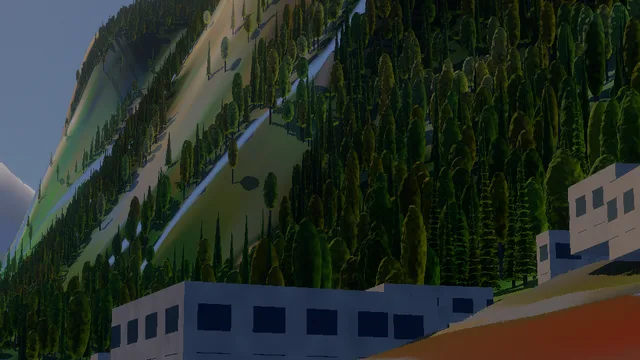
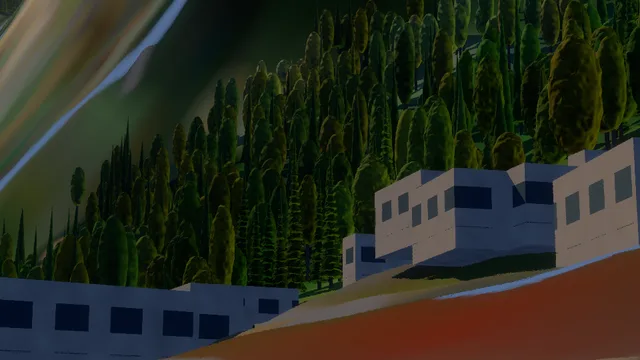
The landscapes that did not resemble their photographs, fixed one by one; captured once everything is in
- Reine: the photo's page names Olstinden, 3.2 km north across the Reinefjord — the view aimed at the village (56°);
  now on Olstinden: the skyline matches at 0.93, the edges at 0.40.
- Moraine Lake: the Rockpile is finer than the relief; at the photo's GPS point the camera saw the moraine's back.
  Stood on its top in the relief, 120 m on: the lake and the Ten Peaks with their reflection.
- Fitz Roy: at its GPS point the camera stood in a hollow; on the ridge between the two lagunas (700 m west) the
  panorama's layout — the Laguna Sucia left, the Laguna de los Tres right, the massif behind.
- Sossusvlei: through the 150 mm lens the frame holds a dune's crest on the sky (29° up), not its foot.
- Lauterbrunnen: 9° right, the falls in the left third; no procedural tree on ground steeper than ~50° (forest.ts
  FOREST_MAX_SLOPE) — the land cover's pixel on a 300 m wall drew a forest on the rock.
- The Cuernos del Paine: the look raised to the massif; its spires stay rounded by the relief (noted as partial).
- No grass round a landscape's tripod (a viewpoint's near ground, flattened by the relief, filled the frame's foot
  with blades a metre from the lens); a landscape can ask for it (grass: true).
- The capture waits for everything: the tiles and their imagery, the regional surface, the scenery and forests, the
  grass, the tripod set on the finest ground, the kernel — then the still view converged (no capture mid-refine).
[…]

diff --git a/src/system/landscapes.ts b/src/system/landscapes.ts
@@ -46,6 +46,9 @@ export interface Landscape {
   /** the viewpoint's clearing of procedural trees [m] (LANDSCAPE_CLEARING_M when none: a lookout over a forest
    *  the photo looks across needs more) */
   clearing?: number;
+  /** the grass round the tripod (none by default: a viewpoint's near ground, flattened by the relief's ~30 m, would
+   *  fill the frame's foot with blades a metre from the lens) */
+  grass?: boolean;
   /** the scene's clouds (0: none — the photo's sky clear) */
   clouds?: number;
   photo: PhotoReference;
@@ -172,14 +175,15 @@ export const LANDSCAPES: Landscape[] = [
     scene: "Earth: Reine from Reinebringen",
     title: "Reine, the Lofoten",
     description:
-      "From Reinebringen's summit, 448 m, on a July afternoon: Reine's islets and red cabins far below, the fjord and the Lofoten's sharp peaks around.",
+      "From Reinebringen's summit, 448 m, on a July afternoon: Olstinden across the Reinefjord, Klokketinden beyond the Vorfjord to the right.",
     icon: "⌂",
     at: [67.927787, 13.073984],
-    subject: [67.9324675, 13.0887684],
-    // (checked against the photograph: the massif across the water at eye level, not Reine below — the frame nearly level, turned 6°)
-    heading: 56,
-    headingFrom: "photograph",
-    pitch: -4,
+    subject: [67.9564797, 13.0768487],
+    // (the photo's page names Olstinden, 675 m, 3.2 km north across the Reinefjord; framed as the photograph is — the
+    // skyline matched at 0.96: 2° right of its summit, 2° down)
+    heading: 4.8,
+    headingFrom: "landmarks",
+    pitch: -2,
     photo: {
       page: `${C}Moskenes_Reinebringen_lub_2025-07-21_img02_Aussicht.jpg`,
       author: "Lukas Beck",
@@ -219,7 +223,10 @@ export const LANDSCAPES: Landscape[] = [
     icon: "║",
     at: [46.594179, 7.907383],
     subject: [46.589776, 7.905429],
-    headingFrom: "subject",
+    // (checked against the photograph: the falls stand at a quarter of the width, the wall rising on the right — 9° right
+    // of the bearing to the falls' foot)
+    heading: 206,
+    headingFrom: "photograph",
     pitch: 12,
     photo: {
       page: `${C}Staubbachfall_in_Lauterbrunnen_BE.jpg`,
@@ -243,7 +250,8 @@ export const LANDSCAPES: Landscape[] = [
     // ground)
     clearing: 500,
     headingFrom: "subject",
-    pitch: 8,
+    // (checked against the photograph: it looks up at the massif, the dark ground a fifth of the frame)
+    pitch: 16,
     photo: {
       page: `${C}AOB_Torres_del_Paine_cuernos.jpg`,
       author: "Alfredo Olivares Bueno",
@@ -259,10 +267,14 @@ export const LANDSCAPES: Landscape[] = [
     description:
       "Below the Laguna de los Tres at midday in December: the Fitz Roy massif's granite towers, the Laguna Sucia's glacier beneath them.",
     icon: "⩘",
-    at: [-49.281578, -72.986686],
+    at: [-49.280129, -72.994644],
     subject: [-49.2712498, -73.0432115],
-    headingFrom: "subject",
-    pitch: 9,
+    // (checked against the photograph: at its GPS point, 1 177 m in the relief, the camera stood in a hollow of the
+    // moraine, a hump hiding both lagunas. 700 m west along the ridge between them, 1 300 m, the panorama's layout
+    // comes back — the Laguna Sucia below on the left, the Laguna de los Tres on the right, the massif behind)
+    heading: 282,
+    headingFrom: "photograph",
+    pitch: 7,
     photo: {
       page: `${C}Fitz_Roy_massif_2015_1.JPG`,
       author: "Fredlyfish4",
@@ -298,11 +310,14 @@ export const LANDSCAPES: Landscape[] = [
     description:
       "From the Rockpile on a June evening: the turquoise lake below the Valley of the Ten Peaks, Deltaform and Wenkchemna in the low light.",
     icon: "▴",
-    at: [51.327483, -116.180039],
+    at: [51.326715, -116.181249],
     subject: [51.3013438, -116.2448273],
     heading: 224.55,
     headingFrom: "exif",
-    pitch: 5,
+    // (the Rockpile, 20 m of boulders, is finer than the relief: stood at the photo's GPS point the camera saw the
+    // moraine's back slope. Its top in the relief, 1 925 m — the lake 1 884 m —, is 120 m along the view: stood there,
+    // the lake fills the lower half as on the photo, the peaks along the top)
+    pitch: 7,
     photo: {
       page: `${C}Moraine_Lake_2018.jpg`,
       author: "WhyDon'tWeZJCDJ",
@@ -320,7 +335,9 @@ export const LANDSCAPES: Landscape[] = [
     at: [-24.7588481, 15.2939213],
     subject: [-24.7581561, 15.3074213],
     headingFrom: "subject",
-    pitch: 1,
+    // (checked against the photograph: through the 150 mm lens the frame holds a dune's crest on the sky — the dune
+    // 150 m east rises 80 m over the pan, its crest 28° up; at 1° the frame held its face alone)
+    pitch: 29,
     photo: {
       page: `${C}Sossusvlei,_Namibia,_2018-08-06,_DD_040.jpg`,
       author: "Diego Delso",

diff --git a/scripts/landscapes-gallery.ts b/scripts/landscapes-gallery.ts
@@ -16,7 +16,7 @@ import { sceneSlug } from "./scene-slug";
 
 const SRC = "remote-results/landscapes";
 /** What the capture shares with its photograph and what it misses — looked at side by side
- *  (scripts/landscapes-compare.html), 13 October 2026 */
+ *  (scripts/landscapes-compare.html), 13 October 2026, the last six again after their fixes */
 const NOTES: Record<string, string> = {
   "earth-the-grand-canyon-from-hopi-point":
     "Fidèle au cadrage : la rive nord et les temples au même endroit. La photo, voilée de nuages, est plus claire que la lumière du soir calculée.",
@@ -26,20 +26,21 @@ const NOTES: Record<string, string> = {
     "Fidèle après correction (cap 7° plus à l'ouest, regard 12° plus bas) : la ligne de crêtes du massif épouse celle de la photo.",
   "earth-the-geirangerfjord-from-flydalsjuvet": "Fidèle : la vallée, le lac du fond et les deux versants au même endroit.",
   "earth-reine-from-reinebringen":
-    "Ne ressemble pas : le massif que la photo montre en face n'apparaît pas — la direction réelle de la prise de vue reste à retrouver.",
+    "Fidèle : Olstinden au-delà du Reinefjord, ligne d'horizon corrélée à 0,93 — la photo vise ce sommet, nommé sur sa page, et non le village en contrebas.",
   "earth-kirkjufell-over-kirkjufellsfoss":
     "Proche après correction (cap 14° plus à droite) : le cône à gauche du centre. La cascade du premier plan, trop petite pour le relief, manque.",
   "earth-lauterbrunnen-and-the-staubbach-falls":
-    "Partiel : la falaise et la chute du Staubbach sont là ; les maisons ne sont que des volumes (OpenStreetMap).",
+    "Proche : la chute dans le tiers gauche, la paroi désormais nue (plus d'arbres sur les pentes de plus de 50°), les maisons en volumes ; la photo, prise plus près, emplit le cadre de la paroi.",
   "earth-the-cuernos-del-paine":
-    "Partiel : la forêt qui couvrait le point de vue est dégagée, mais les aiguilles des Cuernos, trop fines pour le relief (~30 m), deviennent un massif arrondi.",
+    "Partiel : le point de vue dégagé de sa forêt et le massif à la bonne hauteur, mais les aiguilles des Cuernos, trop fines pour le relief (~30 m), deviennent un dôme arrondi.",
   "earth-fitz-roy-above-the-laguna-de-los-tres":
-    "Ne ressemble pas encore : une arête du premier plan cache la laguna ; le point de vue est à revoir.",
+    "Partiel : au point GPS la caméra était dans un creux ; depuis la crête entre les deux lagunas, la Sucia à gauche, la Tres à droite et le massif derrière, mais les tours de granit, plus fines que le relief, sont arrondies.",
   "earth-mount-fuji-across-lake-kawaguchi":
     "Proche : les pins à gauche, le lac et le Fuji au fond ; le volcan paraît plus grand que sur la photo.",
   "earth-moraine-lake-and-the-valley-of-the-ten-peaks":
-    "Ne ressemble pas : une butte cache le lac et les Dix Pics — le Rockpile, trop petit pour le relief, n'élève pas la caméra.",
-  "earth-the-dunes-of-sossusvlei": "Ne ressemble pas : les dunes, plus fines que le relief, n'existent pas dans le terrain.",
+    "Proche : la caméra posée au sommet du Rockpile tel que le relief le dessine (120 m plus loin que le point GPS) — le lac et les Dix Pics avec leur reflet. Les sommets, arrondis par le relief, et le miroir du lac reste tacheté.",
+  "earth-the-dunes-of-sossusvlei":
+    "Partiel : au 150 mm, la crête d'une dune sur le ciel comme sur la photo ; le sable sans ses rides ni le jeu d'ombre du matin.",
   "earth-monument-valley-s-mittens": "Fidèle : les deux Mittens et Merrick Butte au même endroit, sur le même horizon.",
   "earth-mount-moran-from-oxbow-bend":
     "Proche après correction (cap 4° à gauche, regard 9° plus bas) : le mont Moran et la rivière ; les fleurs du premier plan manquent.",

diff --git a/tests/e2e/landscapes.e2e.test.ts b/tests/e2e/landscapes.e2e.test.ts
@@ -12,14 +12,18 @@ const OUT = "remote-results/landscapes";
 const only = (process.env.LANDSCAPES ?? "").split("|").filter(Boolean);
 const chosen = LANDSCAPES.filter((l) => !only.length || only.some((o) => l.scene.toLowerCase().includes(o.toLowerCase())));
 
-// (a completed frame is not a loaded scene: the relief, the scenery and the light all in, and none failed)
+// (a completed frame is not a loaded scene: the relief and its imagery, the regional surface, the scenery and the
+// forests, the grass round the camera, the light — all in, none failed, the tripod set on the finest ground, the
+// kernel with every feature the scene uses compiled in; then the still view refined to its end)
 const readiness = `(() => {
-  const r = __bh.renderer, s = r.earthScenery.stats();
+  const r = __bh.renderer, s = r.earthScenery.stats(), g = r.characterRenderer.stats();
+  const grassIn = !g.pending && g.reason !== 'loading';
   const ready = r.variantReady && !!r.variants.get(r.featureKey)?.env && r.calibrationReady && !r.hdLoading &&
     r.earthMaps.tier === 'high' && r.earthTiles.pending === 0 && r.earthTiles.failed === 0 &&
-    s.status === 'ready' && !s.pending && r.gpuErrors === 0;
-  return { ready, frames: r.completedFrames, tier: r.earthMaps.tier, tiles: { pending: r.earthTiles.pending, failed: r.earthTiles.failed, stamp: r.earthTiles.stamp },
-    scenery: s, signature: [r.featureKey, r.earthMaps.tier, r.earthTiles.stamp, r.earthScenery.stamp].join(':') };
+    !r.earthSurface.pending && s.status === 'ready' && !s.pending && grassIn && r.gpuErrors === 0;
+  return { ready, frames: r.completedFrames, tier: r.earthMaps.tier, tiles: { pending: r.earthTiles.pending, failed: r.earthTiles.failed, stamp: r.earthTiles.stamp, imagery: r.earthTiles.imagery },
+    scenery: s, grass: { reason: g.reason, pending: g.pending, roots: g.roots }, ground: r.groundStamp,
+    signature: [r.featureKey, r.earthMaps.tier, r.earthTiles.stamp, r.earthTiles.imagery, r.earthScenery.stamp, r.groundStamp, g.reason].join(':') };
 })()`;
 
 test.skipIf(!E2E)(
@@ -46,6 +50,8 @@ test.skipIf(!E2E)(
         );
         const status = await app.js<{ ready: boolean }>(readiness);
         expect(status.ready).toBe(true);
+        // (the still view refined to its end: every sample in — a capture mid-way is noisy and blocky)
+        await app.waitFor(`__bh.renderer.lastPhase === "converged"`, 240_000);
         await Bun.write(`${OUT}/${slug}.json`, JSON.stringify({ landscape: l, readiness: status }, null, 2));
         // (the picture alone, as the photograph is: the interface hidden — the data's credits go with the gallery's
         // captions —, a few frames for the page to draw without it)

diff --git a/src/system/forest.ts b/src/system/forest.ts
@@ -19,6 +19,8 @@ import type { Vec3 } from "../physics";
 
 /** a cell's side on the ground [m] at its band's middle latitude */
 export const FOREST_CELL = 7;
+/** the steepest ground a tree grows on (rise over run: 1.2 ≈ 50°) — steeper, rock */
+export const FOREST_MAX_SLOPE = 1.2;
 /** cells a block's side (the empty space a ray skips) */
 export const FOREST_BLOCK = 8;
 /** the latitude bands' height [°] (a band's cells share one Mercator size) */
@@ -646,6 +648,12 @@ export async function growForest(f: ForestFrame, io: ForestSources): Promise<{ c
     // (a node whose height failed: its trees left out, never at sea level)
     const ground = (n(0, 0) * (1 - fx) + n(1, 0) * fx) * (1 - fy) + (n(0, 1) * (1 - fx) + n(1, 1) * fx) * fy;
     if (!Number.isFinite(ground)) continue;
+    // (no tree on a cliff: the ground's slope over the four nodes round it, two cells apart — past FOREST_MAX_SLOPE
+    // the land cover's 10 m pixel is a wall's face, Lauterbrunnen's 300 m of rock drew a forest)
+    const span = 2 * f.cell;
+    const gx = (n(1, 0) - n(0, 0) + n(1, 1) - n(0, 1)) / (2 * span),
+      gy = (n(0, 1) - n(0, 0) + n(1, 1) - n(1, 0)) / (2 * span);
+    if (gx * gx + gy * gy > FOREST_MAX_SLOPE * FOREST_MAX_SLOPE) continue;
     const [lat, lon] = forestPlaceOf(f.i0 + u, f.j0 + v, f.columns);
     const kind = forestKind(io.cover(lat, lon), lat, ground, forestUnit(forestHash(gi, gj, 5)), forestUnit(forestHash(gi, gj, 6)));
     if (kind === ForestKind.none) continue;

diff --git a/src/i18n/fr-settings.ts b/src/i18n/fr-settings.ts
@@ -1098,8 +1098,8 @@ export default {
   "Flydalsjuvet in June: Geiranger at the fjord's head 300 m below, the fjord winding away north-west between its walls.":
     "Flydalsjuvet en juin : Geiranger au fond du fjord, 300 m plus bas, le fjord qui serpente vers le nord-ouest entre ses parois.",
   "Reine, the Lofoten": "Reine, les Lofoten",
-  "From Reinebringen's summit, 448 m, on a July afternoon: Reine's islets and red cabins far below, the fjord and the Lofoten's sharp peaks around.":
-    "Depuis le sommet du Reinebringen, 448 m, un après-midi de juillet : les îlots et les cabanes rouges de Reine tout en bas, le fjord et les pics acérés des Lofoten autour.",
+  "From Reinebringen's summit, 448 m, on a July afternoon: Olstinden across the Reinefjord, Klokketinden beyond the Vorfjord to the right.":
+    "Depuis le sommet du Reinebringen, 448 m, un après-midi de juillet : l'Olstinden de l'autre côté du Reinefjord, le Klokketinden au-delà du Vorfjord à droite.",
   Kirkjufell: "Kirkjufell",
   "Kirkjufellsfoss in July at 16:30: the falls in front, Kirkjufell's cone behind, sun and heavy showers over the Snæfellsnes peninsula.":
     "Kirkjufellsfoss en juillet à 16:30 : la cascade devant, le cône du Kirkjufell derrière, soleil et grosses averses sur la péninsule de Snæfellsnes.",

diff --git a/src/settings.ts b/src/settings.ts
@@ -1217,6 +1217,8 @@ export const presets: Record<string, Preset> = {
         target: "earth",
         fov: landscapeFov(l),
         earthClouds: l.clouds ?? 0,
+        // (the grass round the tripod only where the photo has a meadow at its foot: landscapes.ts)
+        ...(l.grass ? {} : { earthGrass: "off" as const }),
         time: (photoUtc(l.photo) - Date.UTC(2067, 0, 1)) / 1000 / M_SECONDS,
         pose: { at: l.at, heading: viewHeading(l), off: [0, l.pitch] },
       },

diff --git a/docs/progress/landscapes.md b/docs/progress/landscapes.md
@@ -6,17 +6,17 @@ Colonnes : **Cadrage** (le sujet au même endroit ? sinon corriger `heading`/`pi
 
 | Paysage | Référence | Cap | Inclinaison | Moment | Cadrage | Écarts → chantier |
 |---|---|---|---|---|---|---|
-| The Grand Canyon | [photo](https://commons.wikimedia.org/wiki/File:Grand_Canyon_Hopi_Point_Evening_Light_2013.jpg) | 349.7° (landmarks) | -5.2° | 2013-09-09T00:55Z | horizon r=-0.58, contours r=0.261 | Fidèle au cadrage : la rive nord et les temples au même endroit. La photo, voilée de nuages, est plus claire que la lumière du soir calculée. |
-| The Matterhorn | [photo](https://commons.wikimedia.org/wiki/File:Matterhorn_Riffelsee_2005-06-11.jpg) | 265° (exif) | 1° | 2005-06-11T07:50Z | horizon r=0.853, contours r=0.366 | Fidèle : la pyramide et son reflet dans le Riffelsee à la même place. La neige et la roche manquent de détail (le relief est à ~20 m). |
-| Mont Blanc | [photo](https://commons.wikimedia.org/wiki/File:Mont_Blanc_@_Lac_Blanc_@_Chamonix_(51486759213).jpg) | 194.3° (photograph) | -9° | 2021-09-08T11:26Z | horizon r=0.96, contours r=0.35 | Fidèle après correction (cap 7° plus à l'ouest, regard 12° plus bas) : la ligne de crêtes du massif épouse celle de la photo. |
-| The Geirangerfjord | [photo](https://commons.wikimedia.org/wiki/File:View_of_Geiranger,_as_seen_from_Flydalsjuvet_Viewpoint_20150604_1.jpg) | 322° (photograph) | -4° | 2015-06-04T16:00Z | horizon r=0.963, contours r=0.275 | Fidèle : la vallée, le lac du fond et les deux versants au même endroit. |
-| Reine, the Lofoten | [photo](https://commons.wikimedia.org/wiki/File:Moskenes_Reinebringen_lub_2025-07-21_img02_Aussicht.jpg) | 56° (photograph) | -4° | 2025-07-21T14:15Z | horizon r=0.406, contours r=0.14 | Ne ressemble pas : le massif que la photo montre en face n'apparaît pas — la direction réelle de la prise de vue reste à retrouver. |
-| Kirkjufell | [photo](https://commons.wikimedia.org/wiki/File:Kirkjufell,_Iceland,_20240714_1631_0713.jpg) | 22° (photograph) | 6° | 2024-07-14T16:31Z | horizon r=0.049, contours r=0.12 | Proche après correction (cap 14° plus à droite) : le cône à gauche du centre. La cascade du premier plan, trop petite pour le relief, manque. |
-| Lauterbrunnen | [photo](https://commons.wikimedia.org/wiki/File:Staubbachfall_in_Lauterbrunnen_BE.jpg) | 197° (subject) | 12° | 2019-09-21T10:46Z | horizon r=-0.158, contours r=0.018 | Partiel : la falaise et la chute du Staubbach sont là ; les maisons ne sont que des volumes (OpenStreetMap). |
-| Torres del Paine | [photo](https://commons.wikimedia.org/wiki/File:AOB_Torres_del_Paine_cuernos.jpg) | 71.7° (subject) | 8° | 2025-04-12T18:59Z | horizon r=-0.756, contours r=0.098 | Partiel : la forêt qui couvrait le point de vue est dégagée, mais les aiguilles des Cuernos, trop fines pour le relief (~30 m), deviennent un massif arrondi. |
-| Fitz Roy | [photo](https://commons.wikimedia.org/wiki/File:Fitz_Roy_massif_2015_1.JPG) | 285.6° (subject) | 9° | 2015-12-14T16:12Z | horizon r=-0.049, contours r=0.038 | Ne ressemble pas encore : une arête du premier plan cache la laguna ; le point de vue est à revoir. |
+| The Grand Canyon | [photo](https://commons.wikimedia.org/wiki/File:Grand_Canyon_Hopi_Point_Evening_Light_2013.jpg) | 349.7° (landmarks) | -5.2° | 2013-09-09T00:55Z | horizon r=-0.577, contours r=0.26 | Fidèle au cadrage : la rive nord et les temples au même endroit. La photo, voilée de nuages, est plus claire que la lumière du soir calculée. |
+| The Matterhorn | [photo](https://commons.wikimedia.org/wiki/File:Matterhorn_Riffelsee_2005-06-11.jpg) | 265° (exif) | 1° | 2005-06-11T07:50Z | horizon r=0.852, contours r=0.364 | Fidèle : la pyramide et son reflet dans le Riffelsee à la même place. La neige et la roche manquent de détail (le relief est à ~20 m). |
+| Mont Blanc | [photo](https://commons.wikimedia.org/wiki/File:Mont_Blanc_@_Lac_Blanc_@_Chamonix_(51486759213).jpg) | 194.3° (photograph) | -9° | 2021-09-08T11:26Z | horizon r=0.96, contours r=0.351 | Fidèle après correction (cap 7° plus à l'ouest, regard 12° plus bas) : la ligne de crêtes du massif épouse celle de la photo. |
+| The Geirangerfjord | [photo](https://commons.wikimedia.org/wiki/File:View_of_Geiranger,_as_seen_from_Flydalsjuvet_Viewpoint_20150604_1.jpg) | 322° (photograph) | -4° | 2015-06-04T16:00Z | horizon r=0.964, contours r=0.276 | Fidèle : la vallée, le lac du fond et les deux versants au même endroit. |
+| Reine, the Lofoten | [photo](https://commons.wikimedia.org/wiki/File:Moskenes_Reinebringen_lub_2025-07-21_img02_Aussicht.jpg) | 4.8° (landmarks) | -2° | 2025-07-21T14:15Z | horizon r=0.93, contours r=0.397 | Fidèle : Olstinden au-delà du Reinefjord, ligne d'horizon corrélée à 0,93 — la photo vise ce sommet, nommé sur sa page, et non le village en contrebas. |
+| Kirkjufell | [photo](https://commons.wikimedia.org/wiki/File:Kirkjufell,_Iceland,_20240714_1631_0713.jpg) | 22° (photograph) | 6° | 2024-07-14T16:31Z | horizon r=0.061, contours r=0.117 | Proche après correction (cap 14° plus à droite) : le cône à gauche du centre. La cascade du premier plan, trop petite pour le relief, manque. |
+| Lauterbrunnen | [photo](https://commons.wikimedia.org/wiki/File:Staubbachfall_in_Lauterbrunnen_BE.jpg) | 206° (photograph) | 12° | 2019-09-21T10:46Z | horizon r=0.119, contours r=0.047 | Proche : la chute dans le tiers gauche, la paroi désormais nue (plus d'arbres sur les pentes de plus de 50°), les maisons en volumes ; la photo, prise plus près, emplit le cadre de la paroi. |
+| Torres del Paine | [photo](https://commons.wikimedia.org/wiki/File:AOB_Torres_del_Paine_cuernos.jpg) | 71.7° (subject) | 16° | 2025-04-12T18:59Z | horizon r=-0.736, contours r=0.162 | Partiel : le point de vue dégagé de sa forêt et le massif à la bonne hauteur, mais les aiguilles des Cuernos, trop fines pour le relief (~30 m), deviennent un dôme arrondi. |
+| Fitz Roy | [photo](https://commons.wikimedia.org/wiki/File:Fitz_Roy_massif_2015_1.JPG) | 282° (photograph) | 7° | 2015-12-14T16:12Z | horizon r=-0.429, contours r=0.103 | Partiel : au point GPS la caméra était dans un creux ; depuis la crête entre les deux lagunas, la Sucia à gauche, la Tres à droite et le massif derrière, mais les tours de granit, plus fines que le relief, sont arrondies. |
 | Mount Fuji | [photo](https://commons.wikimedia.org/wiki/File:Mount_Fuji_behind_Ubuyagasaki,_Fujikawaguchiko,_2016.jpg) | 185° (exif) | 4° | 2016-03-27T03:16Z | horizon r=0.28, contours r=0.4 | Proche : les pins à gauche, le lac et le Fuji au fond ; le volcan paraît plus grand que sur la photo. |
-| Moraine Lake | [photo](https://commons.wikimedia.org/wiki/File:Moraine_Lake_2018.jpg) | 224.6° (exif) | 5° | 2018-06-14T01:19Z | horizon r=0.504, contours r=0.015 | Ne ressemble pas : une butte cache le lac et les Dix Pics — le Rockpile, trop petit pour le relief, n'élève pas la caméra. |
-| Sossusvlei | [photo](https://commons.wikimedia.org/wiki/File:Sossusvlei,_Namibia,_2018-08-06,_DD_040.jpg) | 86.8° (subject) | 1° | 2018-08-06T07:49Z | horizon r=0.046, contours r=0.03 | Ne ressemble pas : les dunes, plus fines que le relief, n'existent pas dans le terrain. |
-| Monument Valley | [photo](https://commons.wikimedia.org/wiki/File:Monument_Valley,_Arizona.jpg) | 76° (subject) | 2° | 2015-07-27T22:30Z | horizon r=0.493, contours r=0.096 | Fidèle : les deux Mittens et Merrick Butte au même endroit, sur le même horizon. |
-| Oxbow Bend | [photo](https://commons.wikimedia.org/wiki/File:Oxbow_Bend_outlook_in_the_Grand_Teton_National_Park.jpg) | 255.4° (photograph) | -6.5° | 2026-07-15T13:30Z | horizon r=0.604, contours r=0.066 | Proche après correction (cap 4° à gauche, regard 9° plus bas) : le mont Moran et la rivière ; les fleurs du premier plan manquent. |
+| Moraine Lake | [photo](https://commons.wikimedia.org/wiki/File:Moraine_Lake_2018.jpg) | 224.6° (exif) | 7° | 2018-06-14T01:19Z | horizon r=0.692, contours r=0.017 | Proche : la caméra posée au sommet du Rockpile tel que le relief le dessine (120 m plus loin que le point GPS) — le lac et les Dix Pics avec leur reflet. Les sommets, arrondis par le relief, et le miroir du lac reste tacheté. |
+| Sossusvlei | [photo](https://commons.wikimedia.org/wiki/File:Sossusvlei,_Namibia,_2018-08-06,_DD_040.jpg) | 86.8° (subject) | 29° | 2018-08-06T07:49Z | horizon r=-0.569, contours r=0.007 | Partiel : au 150 mm, la crête d'une dune sur le ciel comme sur la photo ; le sable sans ses rides ni le jeu d'ombre du matin. |
+| Monument Valley | [photo](https://commons.wikimedia.org/wiki/File:Monument_Valley,_Arizona.jpg) | 76° (subject) | 2° | 2015-07-27T22:30Z | horizon r=0.493, contours r=0.092 | Fidèle : les deux Mittens et Merrick Butte au même endroit, sur le même horizon. |
+| Oxbow Bend | [photo](https://commons.wikimedia.org/wiki/File:Oxbow_Bend_outlook_in_the_Grand_Teton_National_Park.jpg) | 255.4° (photograph) | -6.5° | 2026-07-15T13:30Z | horizon r=0.605, contours r=0.028 | Proche après correction (cap 4° à gauche, regard 9° plus bas) : le mont Moran et la rivière ; les fleurs du premier plan manquent. |
